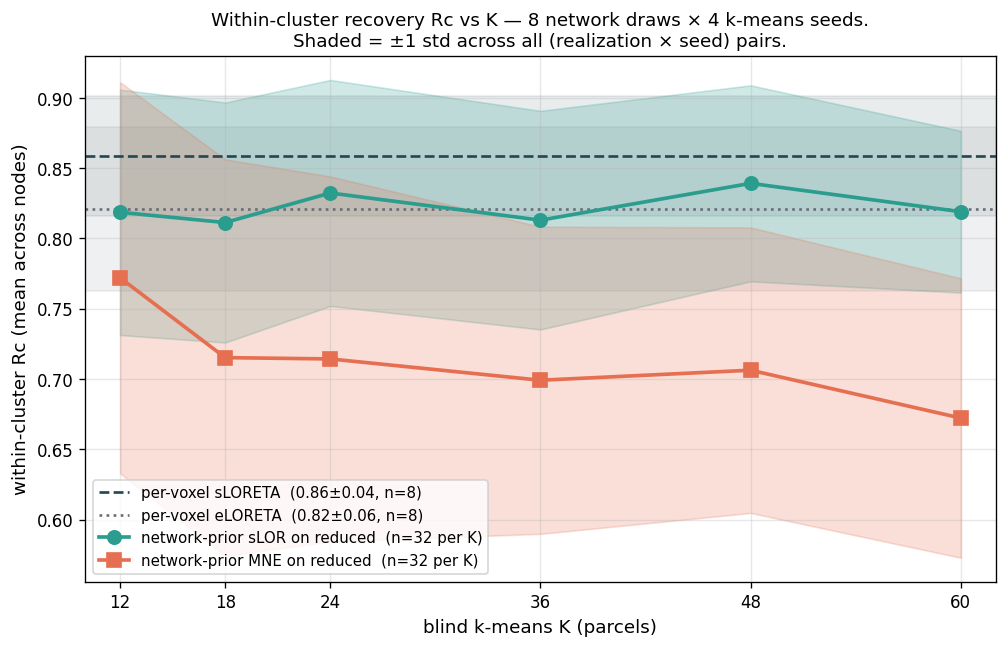
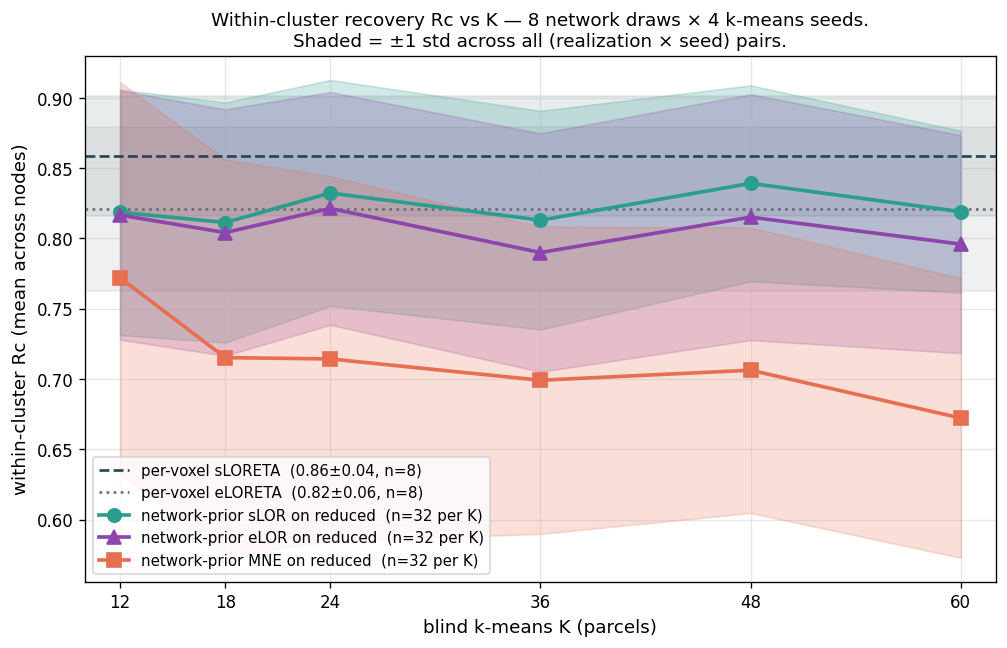
Sync public subset to private @ 7e7f22c

Changed region(s): [[0.0924, 0.1235, 0.9851, 0.5864], [0.0924, 0.679, 0.4926, 0.8642]]

diff --git a/bandr_inverse/notebooks/06_network_prior_sweep.py b/bandr_inverse/notebooks/06_network_prior_sweep.py
@@ -130,14 +130,15 @@ def main():
     # ----- 4. Precompute network-prior operators per (K, kmeans_seed, method)
     # These depend only on L and labels, not on the network realization, so
     # we build them once and reuse across realizations.
+    np_methods = ('mne', 'sloreta', 'eloreta')
     print(f"\nPrecomputing network-prior operators: "
-          f"{len(K_values)} × {len(kmeans_seeds)} × 2 methods = "
-          f"{len(K_values) * len(kmeans_seeds) * 2} operators...")
+          f"{len(K_values)} × {len(kmeans_seeds)} × {len(np_methods)} methods = "
+          f"{len(K_values) * len(kmeans_seeds) * len(np_methods)} operators...")
     np_operators: dict = {}
     for K in K_values:
         for sd in kmeans_seeds:
             labels = parcellate_source_space(sources, K, random_state=sd)
-            for method in ('mne', 'sloreta'):
+            for method in np_methods:
                 K_voxel, _, _ = network_prior_operator(
                     L, labels, snr=3.0, n_parcels=K,
                     normalize='unit_l2', method=method,
@@ -154,7 +155,7 @@ def main():
         'per-voxel eLORETA': np.empty(len(network_seeds)),
     }
     rc_np = {(m, K): np.empty((len(network_seeds), len(kmeans_seeds)))
-             for m in ('mne', 'sloreta') for K in K_values}
+             for m in np_methods for K in K_values}
 
     # Also keep cluster-center positions and node positions for diagnostics
     network_summary = []
@@ -212,7 +213,7 @@ def main():
         # Network-prior methods
         for si, sd in enumerate(kmeans_seeds):
             for K in K_values:
-                for method in ('mne', 'sloreta'):
+                for method in np_methods:
                     K_op = np_operators[(K, sd, method)]
                     J_hat = K_op @ V
                     per_src = per_source_amplitude(J_hat)
@@ -233,25 +234,35 @@ def main():
         print(f"  {name:32s}  mean={v.mean():.3f}  std={v.std():.3f}  "
               f"n={len(v)}")
     print()
-    print(f"  {'network-prior method':32s}  K   mean   std   n   "
-          f"win-rate vs per-voxel sLORETA")
     pv_slo = rc_pv['per-voxel sLORETA']
-    for method in ('sloreta', 'mne'):
+    pv_elo = rc_pv['per-voxel eLORETA']
+    # Each network-prior method is compared against its same-family per-voxel
+    # baseline (the natural Greg-test). MNE-on-reduced has no per-voxel MNE
+    # row in this sweep, so we keep its historical comparison vs per-voxel
+    # sLORETA (a documented bound on what a per-voxel solver achieves).
+    baseline_for = {
+        'sloreta': ('per-voxel sLORETA', pv_slo),
+        'eloreta': ('per-voxel eLORETA', pv_elo),
+        'mne':     ('per-voxel sLORETA', pv_slo),
+    }
+    print(f"  {'network-prior method':28s}  K   mean   std   n   "
+          f"win-rate vs same-family per-voxel baseline")
+    for method in ('sloreta', 'eloreta', 'mne'):
+        baseline_name, pv = baseline_for[method]
         for K in K_values:
             arr = rc_np[(method, K)]   # (n_real, n_seeds)
             flat = arr[~np.isnan(arr)]
             # Per-realization-per-seed comparison against the per-voxel value
             # for that same realization
-            pv_broadcast = np.broadcast_to(
-                pv_slo[:, None], arr.shape
-            )
+            pv_broadcast = np.broadcast_to(pv[:, None], arr.shape)
             valid = ~np.isnan(arr) & ~np.isnan(pv_broadcast)
             n_compared = int(valid.sum())
             n_wins = int(((arr > pv_broadcast) & valid).sum())
             wr = n_wins / max(n_compared, 1)
-            print(f"  network-prior {method.upper():4s}  on reduced     "
+            print(f"  np-{method.upper():7s} on reduced   "
                   f"K={K:3d}  {flat.mean():.3f}  {flat.std():.3f}  "
-                  f"{len(flat):3d}   {n_wins:3d}/{n_compared}  ({wr:.0%})")
+                  f"{len(flat):3d}   {n_wins:3d}/{n_compared}  ({wr:.0%}) "
+                  f"vs {baseline_name}")
         print()
 
     # ----- 7. Plot 1: mean ± std band vs K -------------------------------
@@ -273,6 +284,7 @@ def main():
     # Network-prior curves
     for method, color, marker, label in [
         ('sloreta', '#2A9D8F', 'o', 'network-prior sLOR on reduced'),
+        ('eloreta', '#8E44AD', '^', 'network-prior eLOR on reduced'),
         ('mne',     '#E76F51', 's', 'network-prior MNE on reduced'),
     ]:
         means = np.array([np.nanmean(rc_np[(method, K)]) for K in K_values])
@@ -303,42 +315,50 @@ def main():
     plt.close(fig)
     print(f"\nSweep figure: {out_path}")
 
-    # ----- 8. Plot 2: per-realization win-rate heatmap -------------------
-    # Rows = realization, cols = K. Each cell = win-rate across k-means seeds
-    # for network-prior sLOR vs per-voxel sLORETA on this realization.
-    win_arr = np.full((len(network_seeds), len(K_values)), np.nan)
-    for ni in range(len(network_seeds)):
-        if np.isnan(pv_slo[ni]):
-            continue
-        for ki, K in enumerate(K_values):
-            seeds_arr = rc_np[('sloreta', K)][ni, :]
-            valid = ~np.isnan(seeds_arr)
-            if not valid.any():
+    # ----- 8. Plot 2: per-realization win-rate heatmaps ------------------
+    # Each cell = win-rate across k-means seeds for network-prior method >
+    # same-family per-voxel baseline on this realization. Two panels:
+    # sLOR-vs-sLOR (the original Q-D comparison) and eLOR-vs-eLOR (the
+    # Greg test — does the prior help the *good* inverse?).
+    def _winrate_grid(method_key: str, baseline_vec: np.ndarray) -> np.ndarray:
+        arr = np.full((len(network_seeds), len(K_values)), np.nan)
+        for ni in range(len(network_seeds)):
+            if np.isnan(baseline_vec[ni]):
                 continue
-            wins = int((seeds_arr[valid] > pv_slo[ni]).sum())
-            win_arr[ni, ki] = wins / int(valid.sum())
+            for ki, K in enumerate(K_values):
+                seeds_arr = rc_np[(method_key, K)][ni, :]
+                valid = ~np.isnan(seeds_arr)
+                if not valid.any():
+                    continue
+                wins = int((seeds_arr[valid] > baseline_vec[ni]).sum())
+                arr[ni, ki] = wins / int(valid.sum())
+        return arr
 
-    fig2, ax2 = plt.subplots(figsize=(8, 5))
-    im = ax2.imshow(win_arr, aspect='auto', cmap='RdYlGn',
-                    vmin=0, vmax=1, interpolation='nearest')
-    for ni in range(len(network_seeds)):
-        for ki in range(len(K_values)):
-            v = win_arr[ni, ki]
-            if np.isnan(v):
-                txt = 'n/a'
-            else:
-                txt = f'{v:.0%}'
-            ax2.text(ki, ni, txt, ha='center', va='center', fontsize=9,
-                     color='black' if 0.25 < v < 0.75 else 'white')
-    ax2.set_xticks(range(len(K_values)))
-    ax2.set_xticklabels([f'K={K}' for K in K_values])
-    ax2.set_yticks(range(len(network_seeds)))
-    ax2.set_yticklabels([f'net seed {s}' for s in network_seeds])
-    ax2.set_title(
-        'Per-realization win-rate: network-prior sLOR > per-voxel sLORETA\n'
-        f'(fraction of {len(kmeans_seeds)} k-means seeds per cell)'
-    )
-    plt.colorbar(im, ax=ax2, label='fraction of k-means seeds where np-sLOR wins')
+    win_slo = _winrate_grid('sloreta', pv_slo)
+    win_elo = _winrate_grid('eloreta', pv_elo)
+
+    fig2, axes2 = plt.subplots(1, 2, figsize=(15, 5))
+    for ax_w, win_arr, title in [
+        (axes2[0], win_slo, 'np-sLOR > per-voxel sLORETA'),
+        (axes2[1], win_elo, 'np-eLOR > per-voxel eLORETA'),
+    ]:
+        im = ax_w.imshow(win_arr, aspect='auto', cmap='RdYlGn',
+                         vmin=0, vmax=1, interpolation='nearest')
+        for ni in range(len(network_seeds)):
+            for ki in range(len(K_values)):
+                v = win_arr[ni, ki]
+                txt = 'n/a' if np.isnan(v) else f'{v:.0%}'
+                ax_w.text(ki, ni, txt, ha='center', va='center', fontsize=9,
+                          color='black' if 0.25 < v < 0.75 else 'white')
+        ax_w.set_xticks(range(len(K_values)))
+        ax_w.set_xticklabels([f'K={K}' for K in K_values])
+        ax_w.set_yticks(range(len(network_seeds)))
+        ax_w.set_yticklabels([f'net seed {s}' for s in network_seeds])
+        ax_w.set_title(
+            f'{title}\n(fraction of {len(kmeans_seeds)} k-means seeds per cell)',
+            fontsize=10,
+        )
+        plt.colorbar(im, ax=ax_w, label='win fraction')
     plt.tight_layout()
     out_path2 = os.path.join(
         os.path.dirname(__file__), '..', 'figures',
@@ -352,27 +372,38 @@ def main():
     print("\n" + "=" * 72)
     print("VERDICT")
     print("=" * 72)
-    # Plateau test: K values where network-prior sLOR mean > per-voxel sLOR mean
-    pv_slo_mean = float(np.nanmean(pv_slo))
-    pv_slo_std = float(np.nanstd(pv_slo))
-    print(f"  per-voxel sLORETA baseline: {pv_slo_mean:.3f} ± {pv_slo_std:.3f}")
-    print(f"  K values where np-sLOR mean > per-voxel sLORETA mean:")
-    for K in K_values:
-        m = float(np.nanmean(rc_np[('sloreta', K)]))
-        s = float(np.nanstd(rc_np[('sloreta', K)]))
-        flag = ' <-- exceeds baseline by >1 std' if m > pv_slo_mean + pv_slo_std else ''
-        bf = '+' if m > pv_slo_mean else ' '
-        print(f"    K={K:3d}: {m:.3f} ± {s:.3f}  ({bf}vs baseline){flag}")
-    overall_wins = sum(
-        int((rc_np[('sloreta', K)] > pv_slo[:, None])[~np.isnan(rc_np[('sloreta', K)])].sum())
-        for K in K_values
-    )
-    overall_total = sum(
-        int((~np.isnan(rc_np[('sloreta', K)])).sum()) for K in K_values
-    )
-    print(f"  Overall np-sLOR > per-voxel sLORETA win-rate (all K, all seeds, "
-          f"all realizations): {overall_wins}/{overall_total} = "
-          f"{overall_wins/max(overall_total,1):.0%}")
+
+    def _verdict(method_key: str, baseline_name: str, baseline_vec: np.ndarray):
+        b_mean = float(np.nanmean(baseline_vec))
+        b_std = float(np.nanstd(baseline_vec))
+        label = method_key.upper()
+        print(f"\n  [{label}-on-reduced vs {baseline_name}]")
+        print(f"    {baseline_name} baseline: {b_mean:.3f} ± {b_std:.3f}")
+        print(f"    K values where np-{label} mean > {baseline_name} mean:")
+        for K in K_values:
+            m = float(np.nanmean(rc_np[(method_key, K)]))
+            s = float(np.nanstd(rc_np[(method_key, K)]))
+            flag = (' <-- exceeds baseline by >1 std'
+                    if m > b_mean + b_std else '')
+            bf = '+' if m > b_mean else ' '
+            print(f"      K={K:3d}: {m:.3f} ± {s:.3f}  ({bf}vs baseline){flag}")
+        overall_wins = sum(
+            int(((rc_np[(method_key, K)] > baseline_vec[:, None])
+                 & ~np.isnan(rc_np[(method_key, K)]))[
+                ~np.isnan(rc_np[(method_key, K)])].sum())
+            for K in K_values
+        )
+        overall_total = sum(
+            int((~np.isnan(rc_np[(method_key, K)])).sum()) for K in K_values
+        )
+        print(f"    Overall np-{label} > {baseline_name} win-rate "
+              f"(all K × seeds × realizations): {overall_wins}/{overall_total} = "
+              f"{overall_wins/max(overall_total,1):.0%}")
+
+    # The Greg test: does the region-grouping prior help the *good* inverse?
+    # Reported alongside the original sLORETA comparison.
+    _verdict('sloreta', 'per-voxel sLORETA', pv_slo)
+    _verdict('eloreta', 'per-voxel eLORETA', pv_elo)
     print("=" * 72)
 
 

diff --git a/bandr_inverse/src/network_recovery.py b/bandr_inverse/src/network_recovery.py
@@ -43,7 +43,7 @@ from typing import Literal
 from scipy.cluster.vq import kmeans2
 
 from spherical_forward import SphericalHeadModel, forward_potential
-from inverse_solvers import mne_operator, sloreta_operator
+from inverse_solvers import mne_operator, sloreta_operator, eloreta_operator
 
 
 # ---------------------------------------------------------------------------
@@ -298,7 +298,9 @@ def network_prior_operator(
     snr: float = 3.0,
     n_parcels: int | None = None,
     normalize: Literal['binary', 'mean', 'unit_l2'] = 'unit_l2',
-    method: Literal['mne', 'sloreta'] = 'mne',
+    method: Literal['mne', 'sloreta', 'eloreta'] = 'mne',
+    eloreta_max_iter: int = 50,
+    eloreta_tol: float = 1e-6,
 ) -> tuple[np.ndarray, np.ndarray, np.ndarray]:
     """Network-prior inverse: assume J = G a, solve for a on the reduced
     leadfield L_net = L @ G.
@@ -316,8 +318,14 @@ def network_prior_operator(
                        that bias by dividing each row of the MNE operator
                        by sqrt(diag(R)) where R = K_mne @ L_net.
 
-    Reuses inverse_solvers.{mne,sloreta}_operator on L_net, so the snr
-    convention is identical to the per-voxel solvers in this codebase.
+    method='eloreta' — adaptive-alpha eLORETA on L_net. The per-voxel
+                       backend that wins Q-A on deep sources; this is the
+                       honest test of "does the region-grouping prior help
+                       the *good* inverse?" The reduced n_elec×K system is
+                       small (K up to ~60 here), so the iteration is cheap.
+
+    Reuses inverse_solvers.{mne,sloreta,eloreta}_operator on L_net, so the
+    snr convention is identical to the per-voxel solvers in this codebase.
 
     Returns
     -------
@@ -334,6 +342,10 @@ def network_prior_operator(
         K_parcel = mne_operator(L_net, snr=snr, depth_weighting=0.0)
     elif method == 'sloreta':
         K_parcel = sloreta_operator(L_net, snr=snr)
+    elif method == 'eloreta':
+        K_parcel = eloreta_operator(L_net, snr=snr,
+                                    max_iter=eloreta_max_iter,
+                                    tol=eloreta_tol, verbose=False)
     else:
         raise ValueError(f"unknown method={method!r}")
     K_voxel = G @ K_parcel

diff --git a/bandr_inverse/notebooks/10_orientation_sweep.py b/bandr_inverse/notebooks/10_orientation_sweep.py
@@ -7,13 +7,14 @@ radial = hard.
 
 What we actually find here: the spherical 4-shell EEG model does NOT
 reproduce that observability gradient. At every depth tested (10–78mm),
-the radial dipole produces ~1.6–2.0x MORE scalp signal than the tangential
-dipole of the same moment magnitude. This is the (n+1) prefactor on the
-radial term in the de Munck series (see Mosher 1999, eq. 22; matches
-spherical_forward.py:182). The "radial dipoles are weak for EEG" intuition
-is often imported from MEG — Sarvas (1987) showed radial dipoles produce
-zero magnetic field outside a sphere — but for spherical EEG, the radial
-term carries an extra (n+1) factor.
+the radial dipole produces ~1.4-2.0x MORE scalp signal than the tangential
+dipole of the same moment magnitude. This is the n:1 radial:tangential
+multipole weighting in the de Munck series (radial order-n coefficient
+(2n+1), tangential (2n+1)/n in the homogeneous limit; see Mosher 1999,
+eq. 22, and the corrected tangential term in spherical_forward.py). The
+"radial dipoles are weak for EEG" intuition is often imported from MEG —
+Sarvas (1987) showed radial dipoles produce zero magnetic field outside a
+sphere — but for spherical EEG, the radial term dominates by the factor n.
 
 Localization error in this script therefore mildly DECREASES as the dipole
 rotates toward radial, tracking the SNR rise. The Q-B vertex failure must
@@ -233,7 +234,7 @@ def main():
     ax_bot.set_title(
         'Diagnostic: scalp signal RMS vs orientation at three depths.  '
         'Radial > tangential by ~1.6-2x at every depth tested\n'
-        '(de Munck (n+1) prefactor on radial term).  '
+        '(de Munck n:1 radial:tangential weighting).  '
         'This is why the top-panel error mildly decreases with rotation toward radial.',
         fontsize=10
     )

diff --git a/bandr_inverse/src/spherical_forward.py b/bandr_inverse/src/spherical_forward.py
@@ -179,9 +179,19 @@ def forward_potential(
         n_int = int(n)
         P_n = lpmv(0, n_int, cos_theta)
         P_n1 = lpmv(1, n_int, cos_theta)
+        # Radial and tangential dipole components enter at order n with
+        # multipole strengths n and 1 respectively (de Munck 1988; Mosher
+        # 1999 eq. 22; Yao 2000). With c_n defined as below, the homogeneous
+        # limit gives c_n = (2n+1)/(n+1), so the radial surface coefficient
+        # (n+1)*c_n = (2n+1) is already correct. The tangential coefficient
+        # must therefore be (n+1)/n * c_n so that it equals (2n+1)/n, giving
+        # the correct radial:tangential ratio of n:1. (A bare c_n here is too
+        # small by n/(n+1) and inflates the radial:tangential ratio to n+1:1;
+        # verified to machine precision against the Yao closed form in the
+        # homogeneous limit.)
         V += (n + 1) * c[idx] * depth_pow[idx] * P_n * moment_radial
         if moment_tang_mag > 1e-15:
-            V += c[idx] * depth_pow[idx] * P_n1 * cos_phi * moment_tang_mag
+            V += (n + 1) / n * c[idx] * depth_pow[idx] * P_n1 * cos_phi * moment_tang_mag
 
     return prefactor * V
 

diff --git a/bandr_inverse/src/inverse_solvers.py b/bandr_inverse/src/inverse_solvers.py
@@ -51,7 +51,7 @@ def mne_operator(
         Measurement noise covariance. Identity if None.
     snr : float
         Signal-to-noise ratio used to set regularization:
-        lambda^2 = trace(L L^T) / (snr^2 * trace(C) * n_elec)
+        lambda^2 = trace(L L^T) / (snr^2 * trace(C))
         This is the standard MNE convention.
     depth_weighting : float in [0, 1]
         If > 0, sources weighted by column-norm of L raised to this power

diff --git a/README.md b/README.md
@@ -37,11 +37,14 @@ Surfaces a near-vertex source mislocalization (~62mm error). The
 orientation sweep corrects a common misconception: the failure is
 **not** "radial dipoles are weak for EEG" — that's the MEG result
 (Sarvas 1987: radial dipoles produce zero magnetic field outside a
-sphere). In spherical EEG, the de Munck series gives radial signals an
-`(n+1)` prefactor making them ~2× *stronger* than tangential at the
-scalp. The vertex failure is realistic-anatomy specific (cortical
-normals not aligning with head-center radials, sulcal geometry, skull
-thickness variation), not generic EEG physics.
+sphere). In spherical EEG the radial dipole is *not* weak: the de Munck
+series weights the radial term by `n` against the tangential term's `1`
+per series order, but integrated over the montage the radial and
+tangential scalp signals come out roughly equal (~1:1 RMS, flat across
+depth). So radial sources are well-observed at the scalp, and the vertex
+failure is realistic-anatomy specific (cortical normals not aligning
+with head-center radials, sulcal geometry, skull thickness variation),
+not generic EEG physics.
 
 ### Q-C — active leadfield calibration
 `03_system_id.py`, `08_skull_sweep.py` →